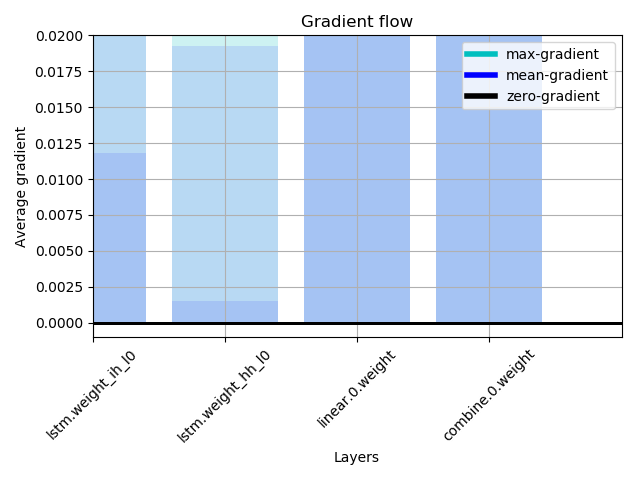
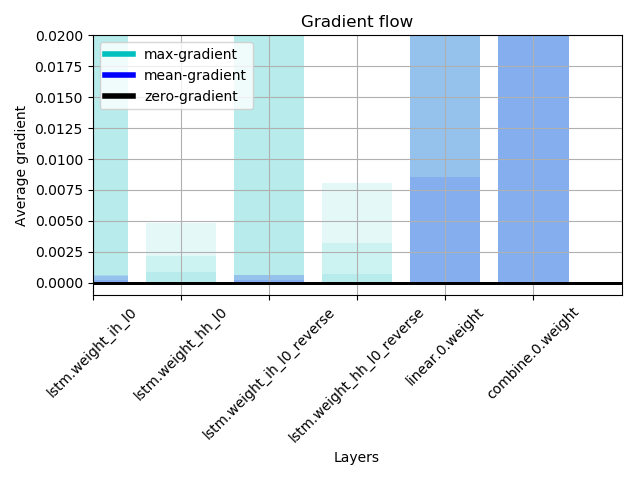
modified for rs ops

diff --git a/train.py b/train.py
@@ -5,9 +5,11 @@ from matplotlib.lines import Line2D
 
 import torch
 import torch.nn as nn
-from torch.utils.data import DataLoader, SequentialSampler
+import torch.nn.functional as F
+from torch.utils.data import DataLoader, SequentialSampler, SubsetRandomSampler
+from torch.utils.data import Subset
 
-from data_utils import BertFeaturesDataset
+from data_utils import BertFeaturesDataset, train_val_holdout_split
 from models.unet import UNet
 from models.text_net import BrainLSTM
 
@@ -49,20 +51,20 @@ def plot_grad_flow(named_parameters):
 def main():
     parser = argparse.ArgumentParser()
 
-    # Required parameters
-    parser.add_argument("--imgs_folder", default=None, type=str, required=True)
-    parser.add_argument("--texts_file", default=None, type=str, required=True)
-    parser.add_argument("--labels_file", default=None, type=str, required=True)
-    parser.add_argument("--bert_model", default=None, type=str, required=True,
-                        help="Bert pre-trained model selected in the list: "
-                             "bert-base-uncased, bert-large-uncased,"
-                             "bert-base-cased, bert-base-multilingual,"
-                             "bert-base-chinese.")
+# Required parameters
+# parser.add_argument("--imgs_folder", default=None, type=str, required=True)
+# parser.add_argument("--texts_file", default=None, type=str, required=True)
+# parser.add_argument("--labels_file", default=None, type=str, required=True)
+# parser.add_argument("--bert_model", default=None, type=str, required=True,
+#                     help="Bert pre-trained model selected in the list: "
+#                          "bert-base-uncased, bert-large-uncased,"
+#                          "bert-base-cased, bert-base-multilingual,"
+#                          "bert-base-chinese.")
 
     # Other parameters
     parser.add_argument("--epochs", default=3, type=int,
                         help="Batch size for predictions.")
-    parser.add_argument("--batch_size", default=2, type=int,
+    parser.add_argument("--batch_size", default=4, type=int,
                         help="Batch size for predictions.")
     parser.add_argument('--max_seq_length', default=256, type=int,
                         help="Seq size for texts embeddings.")
@@ -75,46 +77,83 @@ def main():
     )
     n_gpu = torch.cuda.device_count()
 
-    data = BertFeaturesDataset(args.imgs_folder, args.texts_file,
-                               args.labels_file, args.bert_model,
+    ###
+    imgs_folder = '/data/brain-skull-stripped/rs/'
+    input_text_file = '/data/brain-skull-stripped/dataset/annotations.txt'
+    labels_file = '/data/brain-skull-stripped/dataset/brain-labels.csv'
+    bert_model = 'bert-base-uncased'
+    ###
+    data = BertFeaturesDataset(imgs_folder, input_text_file,
+                               labels_file, bert_model,
                                max_seq_length=args.max_seq_length,
                                batch_size=args.batch_size,
                                torch_device='cpu')
-    sampler = SequentialSampler(data)
-    dl = DataLoader(data, args.batch_size, sampler=sampler)
+    
+    np.random.seed(0)  # TODO: saving indices for test phase
+    train_inds, val_inds, test_inds = train_val_holdout_split(
+        data, ratios=[0.6,0.4,0]
+    )
+    print('INDS', train_inds, val_inds, test_inds)
+    train_sampler = SubsetRandomSampler(train_inds)
+    val_sampler = SubsetRandomSampler(val_inds)
+    test_sampler = Subset(data, test_inds)
+
+    train_loader = DataLoader(data, batch_size=args.batch_size,
+                              sampler=train_sampler)
+    val_loader = DataLoader(data, batch_size=args.batch_size*2,
+                            sampler=val_sampler)
+    test_loader = DataLoader(test_sampler)
+
     model = UNet(1)
     model = model.to(device)
-    lstm = BrainLSTM(768, 256, 1, 2, 1)
+    lstm = BrainLSTM(768, 256, 1, 2, 2)
     lstm = lstm.to(device)
     print(f'UNet using {device}')
     if device == 'cuda' and n_gpu > 1:
-        model = torch.nn.DataParallel(model)
+        lstm = torch.nn.DataParallel(lstm)
 
     optimizer = torch.optim.SGD(lstm.parameters(), lr=0.001, weight_decay=5e-4)
 
-    loss_func = nn.MSELoss()
+    # loss_func = nn.MSELoss()
+    # loss_func = nn.NLLLoss()
+    # softmax = nn.LogSoftmax(dim=1)
+    loss_func = nn.CrossEntropyLoss()
+
     # model = model.double()
-    model.train()
+    
     for epoch in range(args.epochs):
+        lstm.train()
         train_loss = 0
-        for i, batch in enumerate(dl):
+        for i, batch in enumerate(train_loader):
             optimizer.zero_grad()
             images = batch['image'].to(device)
-            labels = batch['label'].float().to(device)
+            print(images.is_cuda)
+            labels = batch['label'].long().to(device).squeeze(1)
             embeddings = batch['embedding'].to(device)
             pred = lstm(embeddings)
             loss = loss_func(pred, labels)
-            print(pred.cpu().detach().numpy(), labels.cpu().detach().numpy())
-            print('LOSS', np.sqrt(loss.cpu().item()))
             loss.backward()
-            # print(lstm.lstm.weight_ih_l0.grad.shape)
-            # print(lstm.lstm.weight_hh_l0.grad.shape)
-            plot_grad_flow(lstm.named_parameters())
+            # plot_grad_flow(lstm.named_parameters())
             optimizer.step()
             train_loss += np.sqrt(loss.cpu().item())
-        train_loss /= len(dl)
+        train_loss /= len(train_loader)
         if epoch % 1 == 0:
             print('Epoch: %04d Train loss: %.4f' % (epoch, train_loss))
+
+        # VALIDATE
+        if epoch % 3 == 0:
+            lstm.eval()
+            val_loss = 0
+            with torch.no_grad():
+                for batch in val_loader:
+                    images = batch['image'].to(device)
+                    labels = batch['label'].long().to(device).squeeze(1)
+                    embeddings = batch['embedding'].to(device)
+                    pred = lstm(embeddings)
+                    val_loss += loss_func(pred, labels) 
+                val_loss /= len(val_loader)
+                print('            Val loss: %.4f' % (val_loss.item()))
+
 
 if __name__ == "__main__":
     main()

diff --git a/data_utils.py b/data_utils.py
@@ -30,6 +30,7 @@ import glob
 import numpy as np
 import pandas as pd
 import skimage
+import nibabel
 import pydicom
 from PIL import Image
 
@@ -101,8 +102,10 @@ class BertFeaturesDataset(Dataset):
         return len(self.dataset)
 
     def __getitem__(self, idx):
-        name = self.names[idx]
-        img = stack_images(self.imgs_folder, name, True)
+        name = self.names[idx] + '.npy'
+        # img = stack_images(self.imgs_folder, name, True)
+        img_path = os.path.join(self.imgs_folder, name)
+        img = np.load(img_path)[...,0]
 
         sample = {
             'image': img,
@@ -297,14 +300,20 @@ def listdir_nohidden(path):
             yield f
 
 
-def images_path(path_to_img_folder, patient_name):
+def images_path(path_to_img_folder, patient_name, mode='mgh'):
     path = os.path.join(path_to_img_folder, patient_name)
-    mod_list = list(listdir_nohidden(path))  # TODO: handle several modalities
-    filelist = list(listdir_nohidden(os.path.join(path, mod_list[0])))
-    filelist = sorted(filelist, key=lambda x: int(x[1:]))
-    for file in filelist:
-        yield glob.glob(os.path.join(path_to_img_folder,
-                        patient_name, mod_list[0], file))[0]
+    if mode == 'gliomas':
+        mod_list = list(listdir_nohidden(path))
+        filelist = list(listdir_nohidden(os.path.join(path, mod_list[0])))
+        filelist = sorted(filelist, key=lambda x: int(x[1:]))
+        for file in filelist:
+            yield glob.glob(os.path.join(path_to_img_folder,
+                            patient_name, mod_list[0], file))[0]
+    elif mode == 'mgh':
+        filelist = list(listdir_nohidden(path))
+        for file in filelist:
+            yield glob.glob(os.path.join(path_to_img_folder,
+                            patient_name, file))[0]
 
 
 def read_image(path_to_image_file, is_torch):
@@ -330,3 +339,75 @@ def stack_images(path_to_img_folder, patient_name, is_torch):
     # img_np = np.transpose(img_np, (1, 2, 0))
     img_tensor = torch.tensor(img_np, dtype=torch.float)
     return torch.unsqueeze(img_tensor, 0)
+
+
+def load_mgh(path_to_img_folder, patient_name):
+    for img_path in images_path(path_to_img_folder, patient_name, mode='mgh'):
+        print(img_path)
+        image = nibabel.freesurfer.mghformat.load(img_path)
+        img_np = np.array(image.get_data())
+        img_np /= img_np.max()
+        img_np *= 255
+        img_np = img_np.astype(np.uint8)
+        img_np = np.transpose(img_np, (2, 1, 0))  # (C, W, H) & vertical align
+        img_np = skimage.transform.resize(img_np, (224, 224, 224),
+                                          preserve_range=True)
+        img_np = img_np.astype(np.uint8)
+    
+    return img_np
+
+
+
+def train_val_holdout_split(dataset, ratios=[0.7, 0.2, 0.1]):
+    """Return indices for subsets of the dataset.
+    Parameters
+    ----------
+    dataset : torch.utils.data.Dataset
+        Dataset made with class which inherits `torch.utils.data.Dataset`
+    ratios : list of floats
+        List of [train, val, holdout] ratios respectively. Note, that sum of 
+        values must be equal to 1. (train + val + holdout = 1.0)
+    """
+
+    assert np.allclose(ratios[0] + ratios[1] + ratios[2], 1)
+    train_ratio = ratios[0]
+    val_ratio = ratios[1]
+    test_ratio = ratios[2]
+
+    df_size = len(dataset)
+
+    train_inds = np.random.choice(range(df_size), 
+                                  size=int(df_size*train_ratio),
+                                  replace=False)
+
+    val_test_inds = list(set(range(df_size)) - set(train_inds))
+    val_inds = np.random.choice(
+        val_test_inds,
+        size=int(len(val_test_inds) * val_ratio / (val_ratio +test_ratio)),
+        replace=False
+    )
+
+    test_inds = np.asarray(list(set(val_test_inds) - set(val_inds)),
+                           dtype='int')
+
+    set_ = set(train_inds) - set(val_inds) - set(test_inds)
+    assert len(list(set_)) == len(train_inds)
+
+    return train_inds, val_inds, test_inds
+
+
+if __name__ == "__main__":
+    imgs_folder = '/data/brain-skull-stripped/rs/'
+    labels_file = '/data/brain-skull-stripped/dataset/brain-labels.csv'
+    input_text_file = '/data/brain-skull-stripped/dataset/annotations.txt'
+    bert_model = 'bert-base-uncased'
+    data = BertFeaturesDataset(imgs_folder, input_text_file, labels_file, 
+                               bert_model,
+                 max_seq_length=256, batch_size=4, torch_device=None)
+    
+    print(data[0]['image'].shape)
+    print(data[0]['embedding'].shape)
+    print(data[0]['label'])
+    print(data[0]['name'])
+
+

diff --git a/models/text_net.py b/models/text_net.py
@@ -48,15 +48,15 @@ class BrainLSTM(nn.Module):
         self.num_layers = num_layers
         lstm_input_size = embed_dim * self.context_size
         self.lstm = nn.LSTM(lstm_input_size, self.hidden_dim, self.num_layers,
-                            dropout=dropout)
+                            dropout=dropout, bidirectional=True)
         self.linear = nn.Sequential(
-            nn.Linear(embed_dim * self.context_size + self.hidden_dim,
+            nn.Linear(embed_dim * self.context_size + 2 * self.hidden_dim,
                       self.hidden_dim),
-            nn.ReLU()
+            # nn.ReLU()
         )
         self.combine = nn.Sequential(
             nn.Linear(self.hidden_dim, combine_dim),
-            nn.ReLU()
+            # nn.ReLU()
         )
 
     def forward(self, x):
@@ -74,14 +74,14 @@ class BrainLSTM(nn.Module):
 
         # Pass through LSTM and Linear layers
         out, (final_hidden_state, final_cell_state) = self.lstm(x)
-        # out.shape -> (seq_len-context_size+1, batch_size, hidden_dim)
+        # out.shape -> (seq_len-context_size+1, batch_size, 2*hidden_dim)
 
         final_encoding = torch.cat((out, x), 2).permute(1, 0, 2)
         # final_encoding.shape -> (batch_size, seq_len-context_size+1,
-        #     embed_dim * context_size + hidden_dim)
+        #     embed_dim * context_size + 2*hidden_dim)
 
         out = self.linear(final_encoding)
-        out = F.relu(out)
+        # out = F.relu(out)
         # out.shape -> (batch_size, seq_len-context_size+1, hidden_dim)
 
         out = out.permute(0, 2, 1)

diff --git a/segmentation/eval/eval.py b/segmentation/eval/eval.py
@@ -27,7 +27,8 @@ def arguments():
 
 
 def load_patient(general_path, patient_id):
-    x = data_utils.stack_images(general_path, patient_id, False)
+    # x = data_utils.stack_images(general_path, patient_id, False)
+    x = data_utils.load_mgh(general_path, patient_id)
 
     if len(x.shape) == 3:
         xx = np.empty((x.shape[0], x.shape[1], x.shape[1], 3), dtype = np.uint8)
@@ -46,7 +47,7 @@ def main(opt):
     weight_gliom = opt.weight_gliom
     output_path = opt.output
 
-    patients_id = glob.glob1(input_path, "G*")
+    patients_id = glob.glob1(input_path, "P*")
 
     brain_segm = TestNet(weight_brain, "Brain segmentation", True)
     gliom_segm = TestNet(weight_gliom, "Gliomas segmentation", False)
